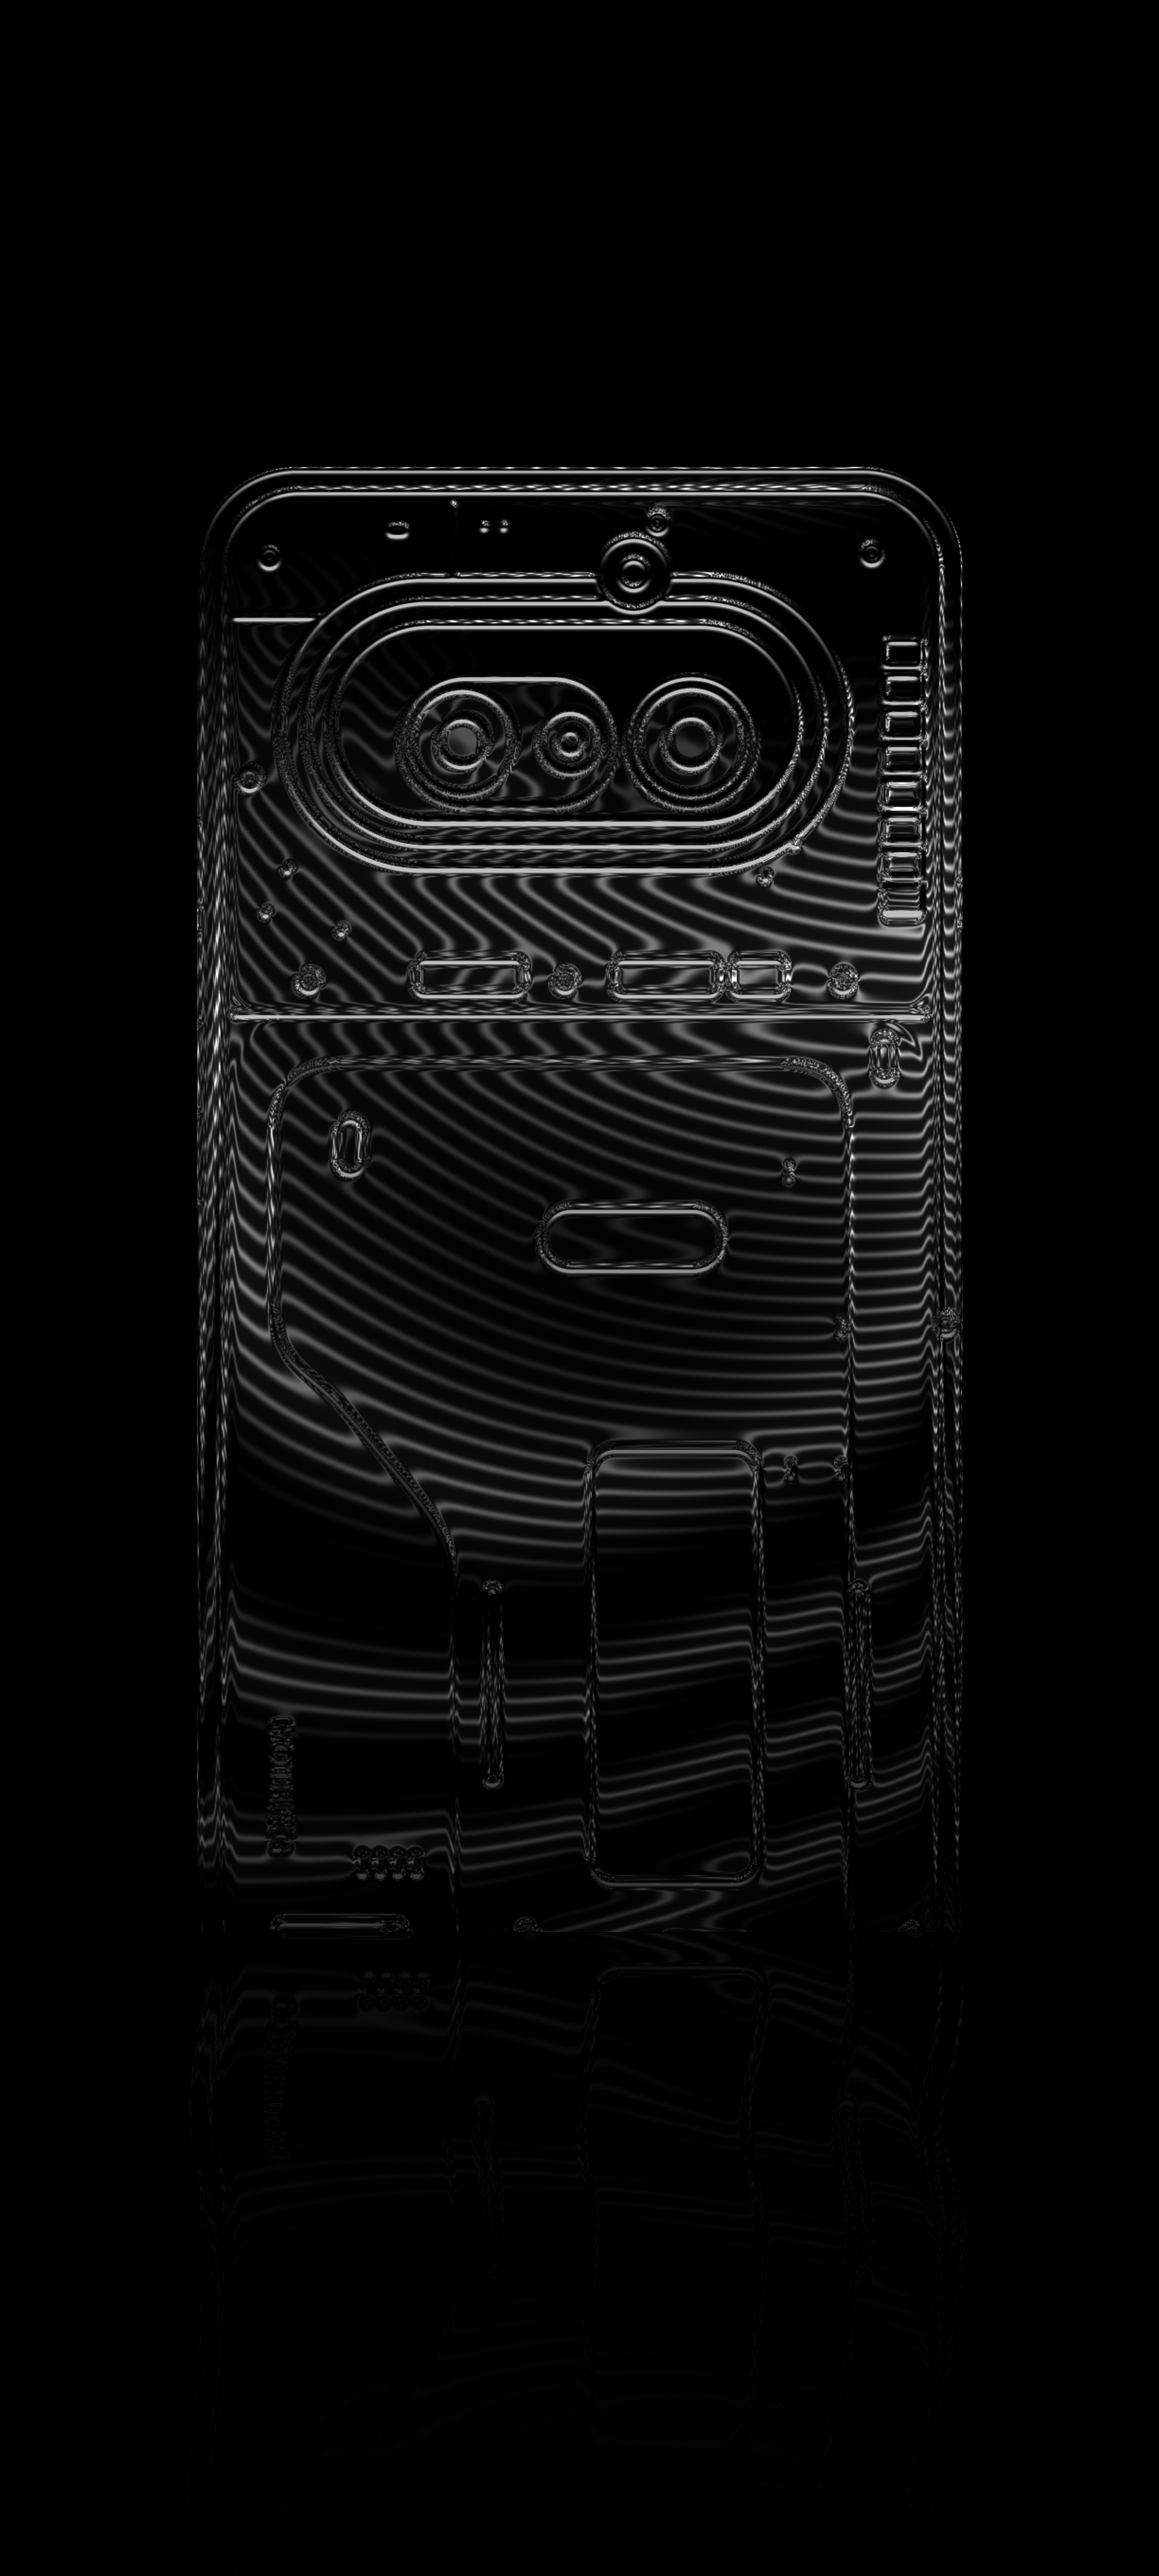
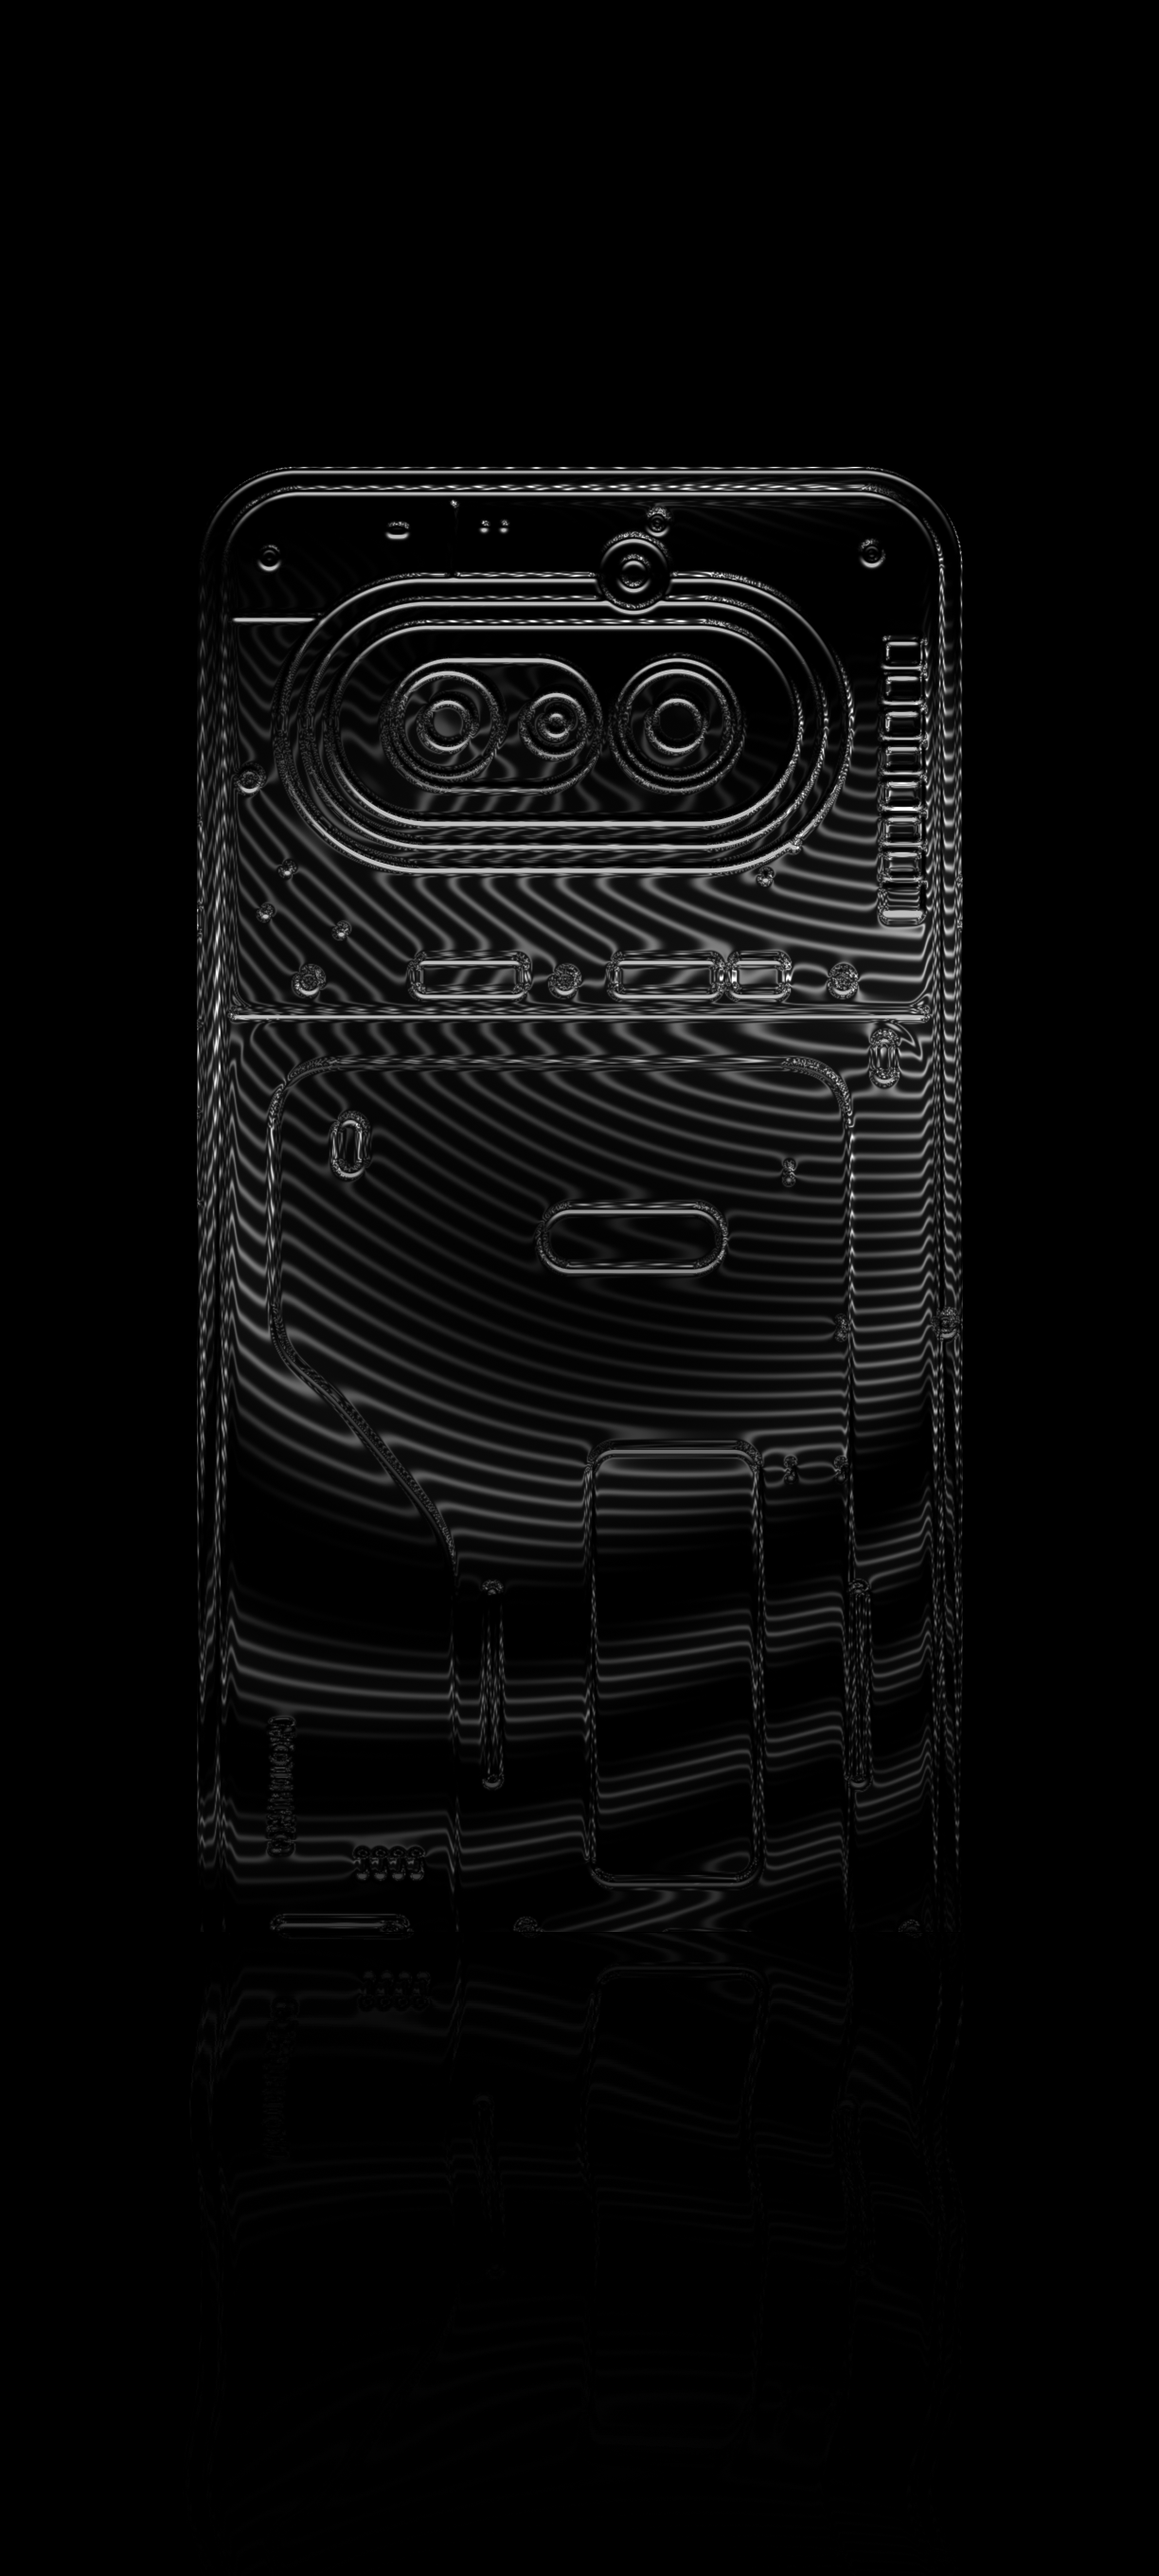
Center the camera lenses inside the phone wallpapers' camera rings

Changed region(s): [[0.3105, 0.25, 0.652, 0.3125]]

diff --git a/scripts/wallpaper.py b/scripts/wallpaper.py
@@ -8,6 +8,7 @@ from PIL import Image, ImageDraw, ImageFilter, ImageFont
 
 WIDTH, HEIGHT = 1224, 2720
 INK = 0.25
+LENS_Y = 186.5
 
 
 def grid():
@@ -106,11 +107,11 @@ def phone(scale):
     plane(70, 313, 350, 697, 940, 35)
     plane(140, 338, 105, 655, 268, 80)
     plane(200, 366, 131, 627, 242, 56)
-    plane(120, 405, 160, 527, 234, 37)
-    plane(120, 530, 160, 604, 234, 37)
-    for center_x, radius in [(440, 30), (500, 18), (567, 31)]:
+    plane(120, 397, 149.5, 519, 223.5, 37)
+    plane(120, 522, 149.5, 596, 223.5, 37)
+    for center_x, radius in [(432, 30), (492, 18), (559, 31)]:
         left, right = center_x - radius, center_x + radius
-        plane(60, left, 197 - radius, right, 197 + radius, radius)
+        plane(60, left, LENS_Y - radius, right, LENS_Y + radius, radius)
     plane(160, 673, 140, 695, 296, 3)
 
     box(293, 45, 717, 955, 55)
@@ -125,11 +126,11 @@ def phone(scale):
     box(338, 105, 655, 268, 80, fill=0)
     box(352, 118, 641, 255, 70)
     box(366, 131, 627, 242, 56)
-    box(405, 160, 527, 234, 37)
-    ring(567, 197, 37)
-    lenses = [(440, 30), (440, 14), (500, 18), (500, 7), (567, 31), (567, 15)]
+    box(397, 149.5, 519, 223.5, 37)
+    ring(559, LENS_Y, 37)
+    lenses = [(432, 30), (432, 14), (492, 18), (492, 7), (559, 31), (559, 15)]
     for center_x, radius in lenses:
-        ring(center_x, 197, radius)
+        ring(center_x, LENS_Y, radius)
     ring(535, 104, 21, fill=0)
     ring(535, 104, 9)
 
